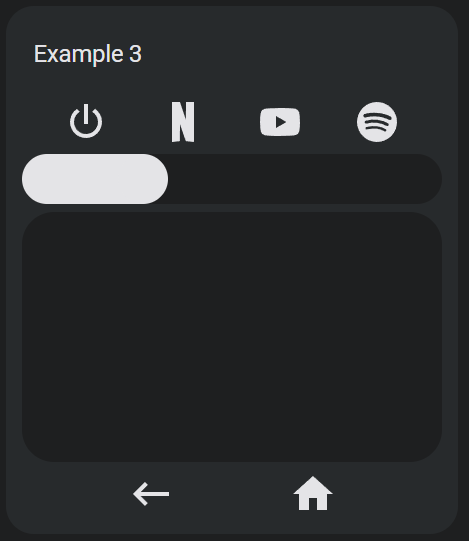
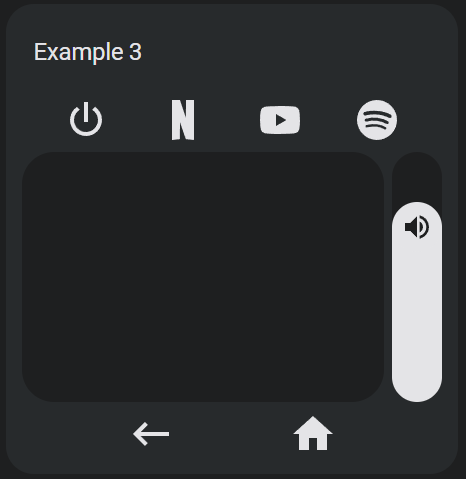
add a vertical slider to an example

diff --git a/README.md b/README.md
@@ -1072,20 +1072,26 @@ Result:
 
 ### Example 3
 
-Using less.
+Using less and a vertical slider.
 
 ```yaml
 type: custom:android-tv-card
 remote_id: remote.google_chromecast
 slider_id: media_player.google_chromecast
 title: Example 3
+custom_actions:
+  slider:
+    vertical: true
+    icon: mdi:volume-high
+    style:
+      height: 250px
 rows:
   - - power
     - netflix
     - youtube
     - spotify
-  - - slider
   - - touchpad
+    - slider
   - - back
     - home
 ```
